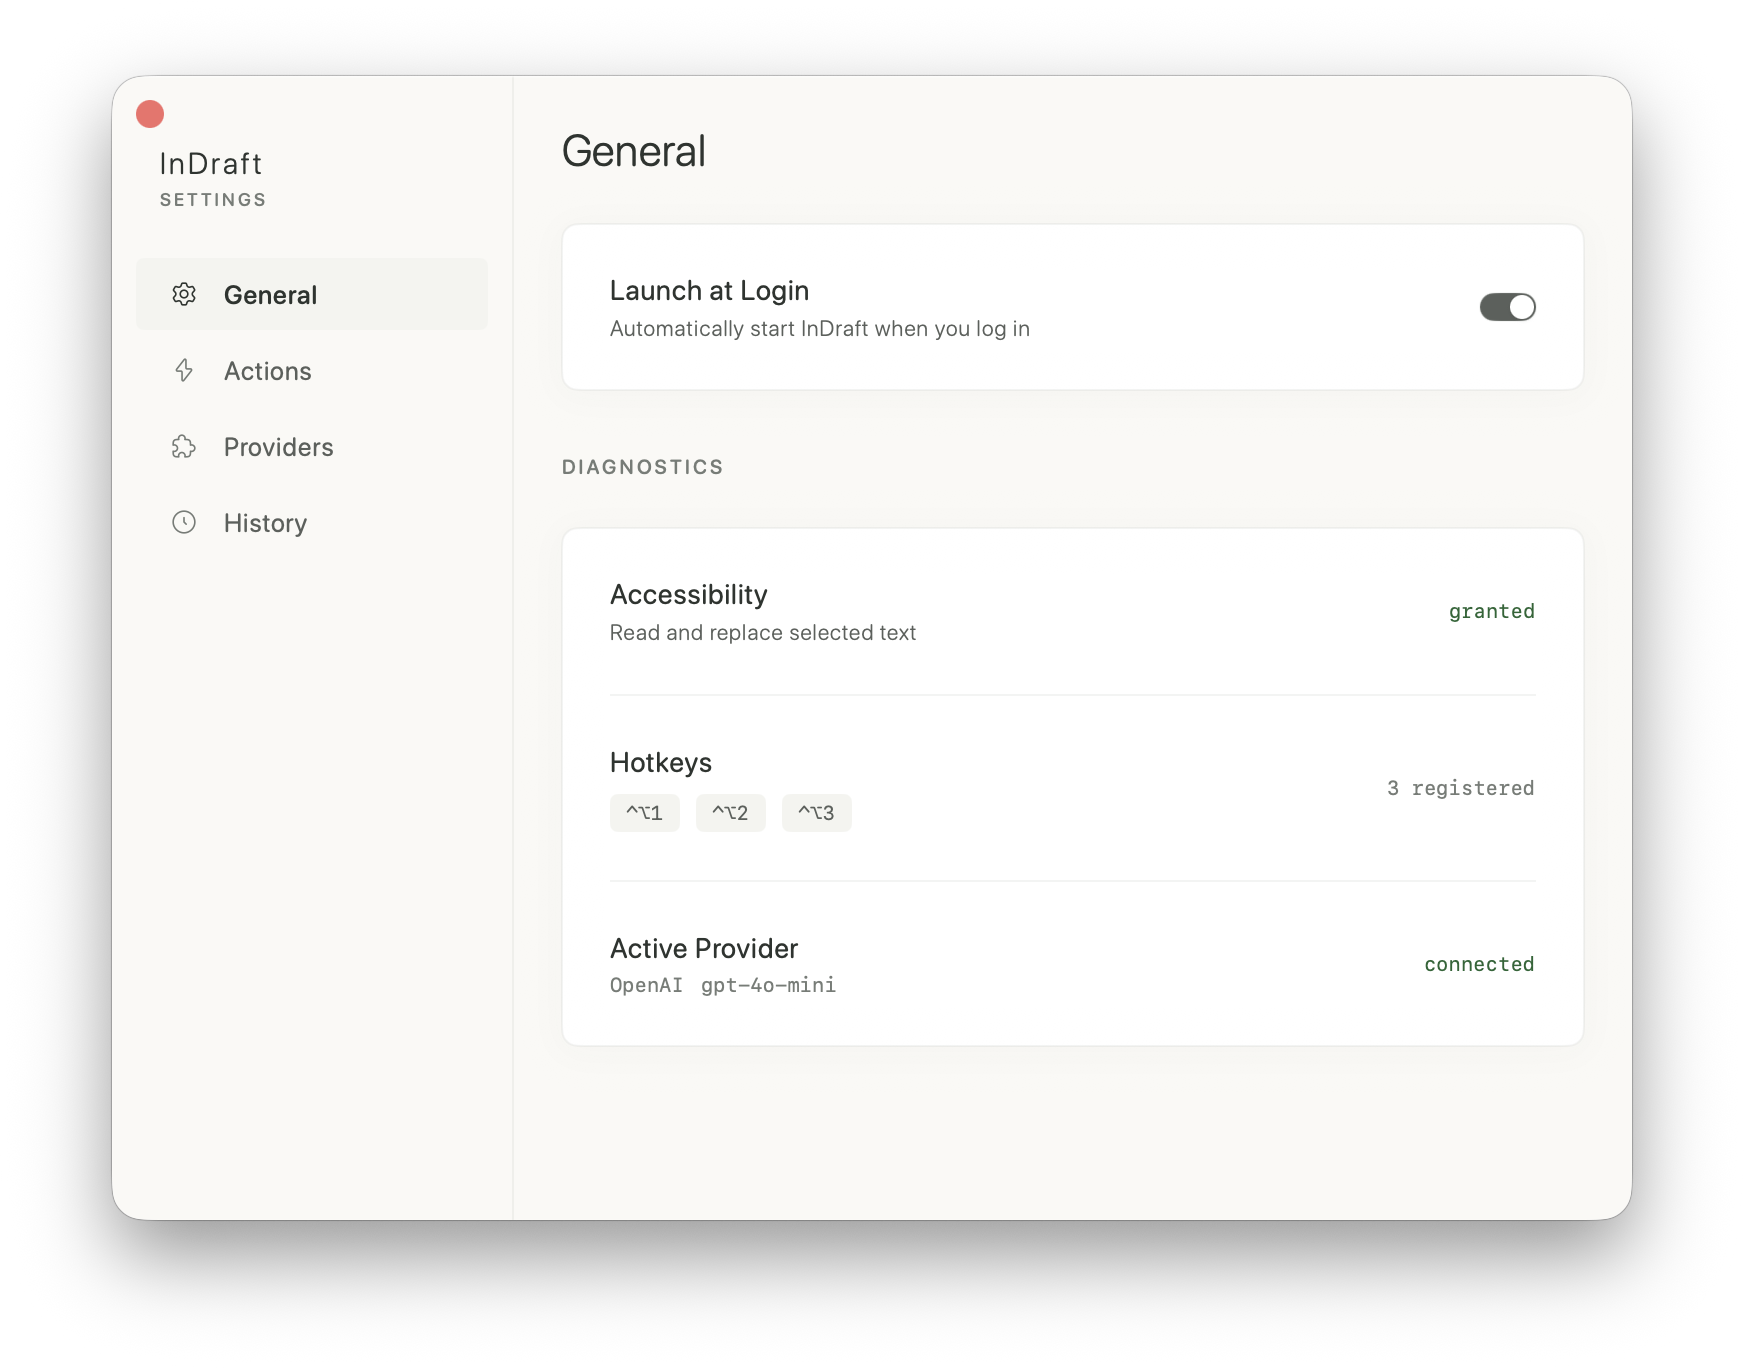
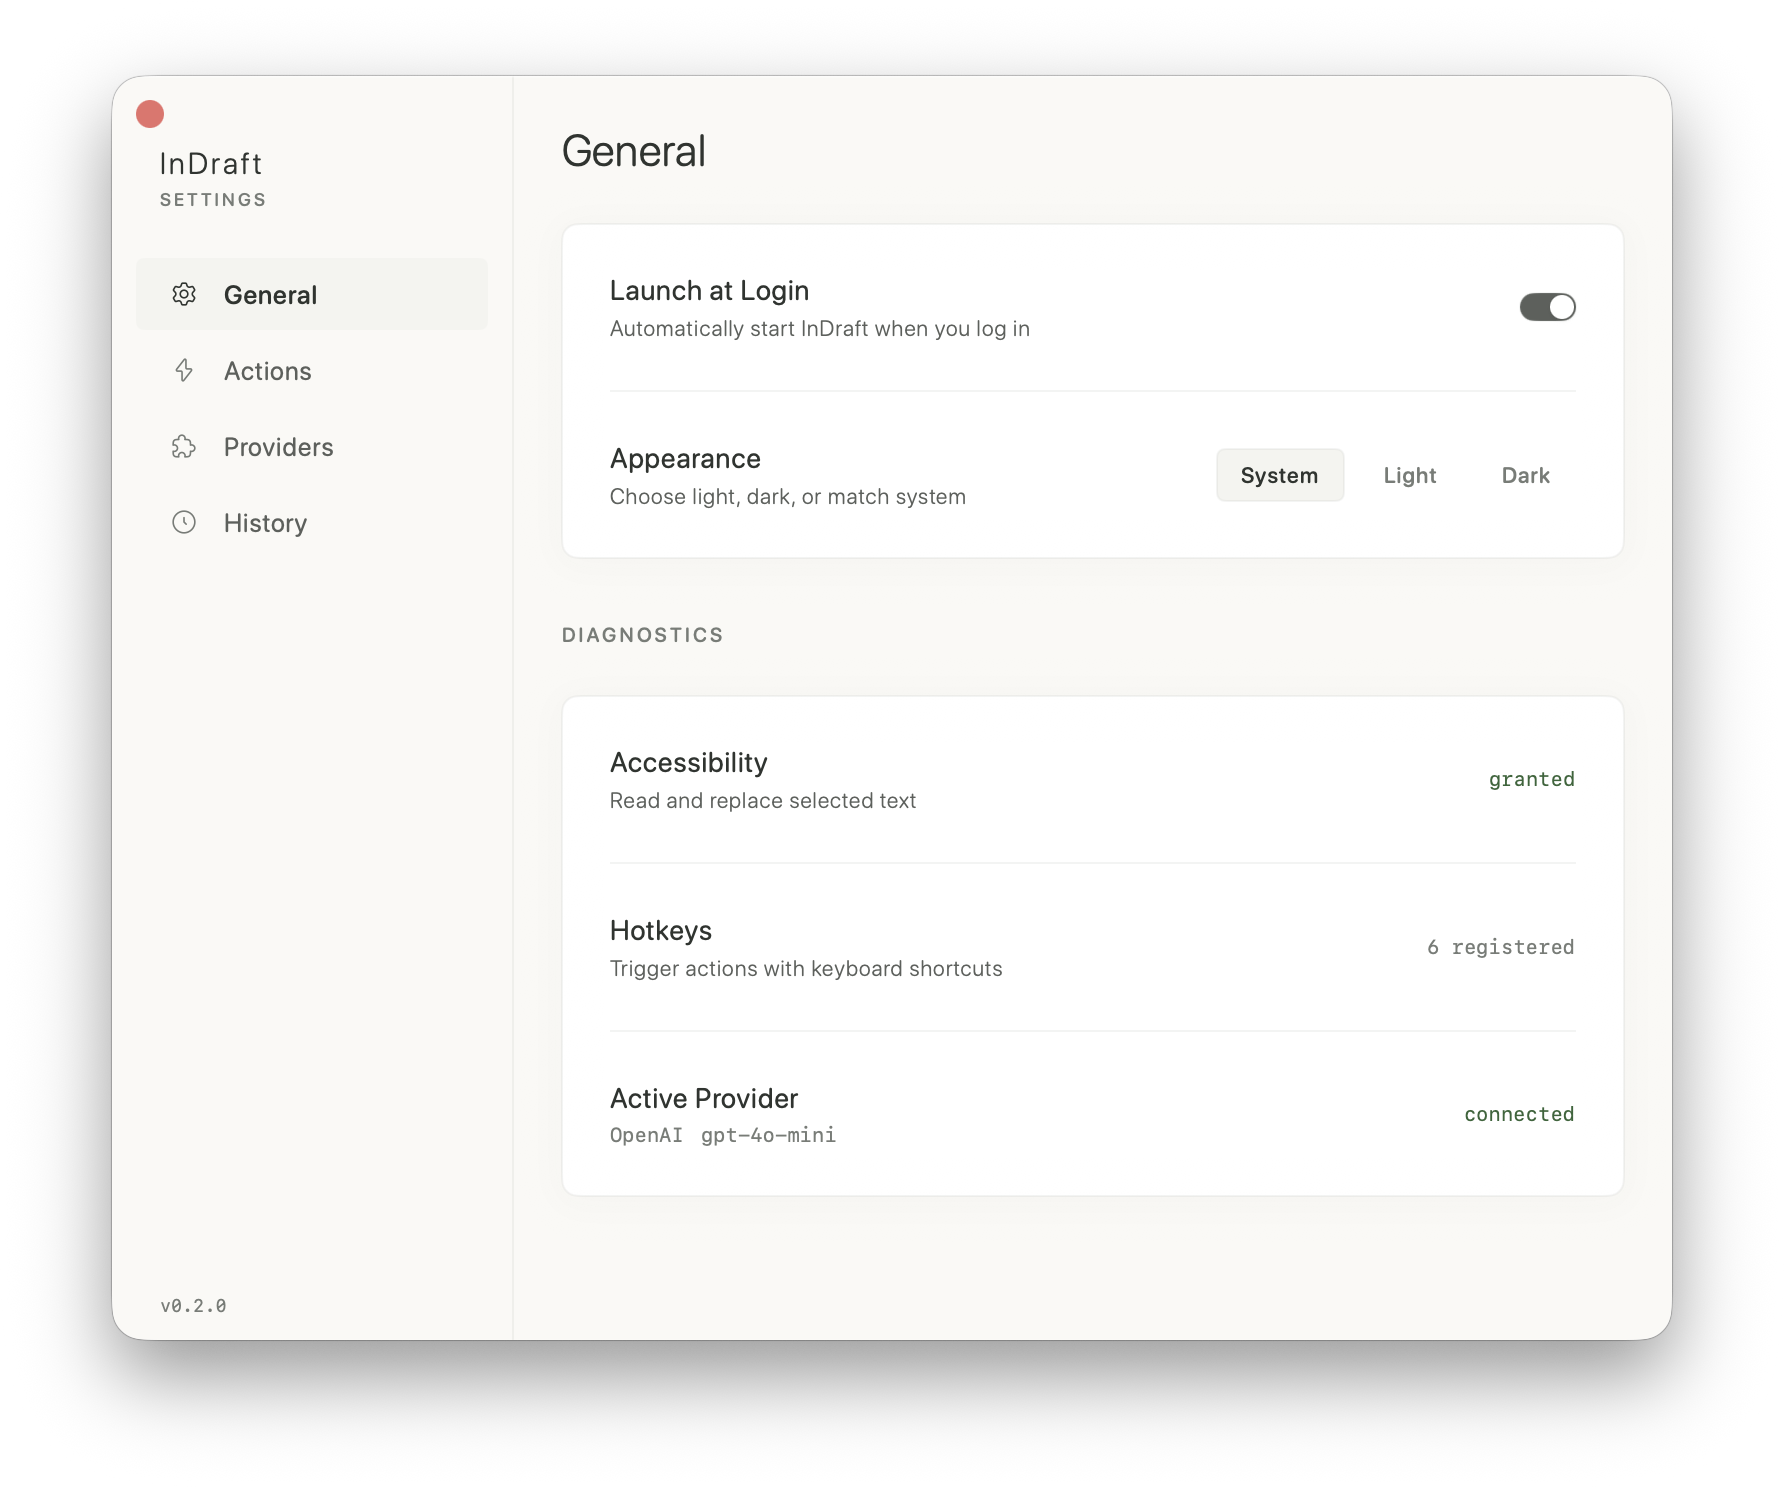
docs: Update README with v0.2.0 features, new screenshots, and history diff

diff --git a/README.md b/README.md
@@ -9,12 +9,12 @@
 </p>
 
 <p align="center">
-  <a href="https://github.com/addison-w/InDraft/releases/latest">📥 Download</a> · macOS 14.0+ · v0.1.0
+  <a href="https://github.com/addison-w/InDraft/releases/latest">Download</a> · macOS 14.0+ · v0.2.0
 </p>
 
 ---
 
-InDraft lives in your menu bar and rewrites, fixes, shortens, or translates your text in-place with a single keystroke. No copy-paste gymnastics. No switching to a browser. No waiting on a ChatGPT tab.
+InDraft lives in your menu bar and rewrites, fixes, shortens, translates, or transforms your text in-place with a single keystroke. No copy-paste gymnastics. No switching to a browser. No waiting on a ChatGPT tab.
 
 <p align="center">
   <img src="docs/screenshots/onboarding.png" width="520" alt="InDraft onboarding" />
@@ -22,78 +22,61 @@ InDraft lives in your menu bar and rewrites, fixes, shortens, or translates your
 
 ---
 
-## 😩 The Problem
+## The Problem
 
-You're writing an email or a slack message. You select a paragraph, open a new tab, paste it into ChatGPT, type "fix the grammar", wait, copy the result, switch back, paste it over the original text.
+You're writing an email or a Slack message. You select a paragraph, open a new tab, paste it into ChatGPT, type "fix the grammar", wait, copy the result, switch back, paste it over the original text.
 
 That's **~30 seconds** for one fix.
 
-Now multiply that by **50–100 times a day** — drafting emails, writing docs, polishing Slack messages, editing proposals. That's **25–50 minutes a day** lost to app-switching and copy-pasting. Every. Single. Day.
+Now multiply that by **50-100 times a day** — drafting emails, writing docs, polishing Slack messages, editing proposals. That's **25-50 minutes a day** lost to app-switching and copy-pasting. Every. Single. Day.
 
-And if you're chatting in multiple languages? Even worse. Type in your native language, switch to a translator, copy-paste, switch back… for every single message.
+And if you're chatting in multiple languages? Even worse. Type in your native language, switch to a translator, copy-paste, switch back... for every single message.
 
-## ✨ The Solution
+## The Solution
 
 With InDraft:
 
 1. **Select** text in any app
-2. **Press a hotkey** (e.g. `⌃⌥1`)
+2. **Press a hotkey** (e.g. `Ctrl+Opt+1`)
 3. **Done** — text is transformed in place
 
 That's it. No context switching. No clipboard juggling. Your cursor stays right where it is.
 
 ---
 
-## 🚀 What Can It Do?
+## 6 Built-in Actions
 
-InDraft ships with three built-in actions, and you can create as many custom ones as you want:
+InDraft ships with six predefined actions ready to use out of the box:
 
 | Hotkey | Action | What It Does |
 |--------|--------|-------------|
-| `⌃⌥1` | **Grammar Fix** | Fixes spelling, grammar, and punctuation |
-| `⌃⌥2` | **Rewrite for Clarity** | Simplifies and removes ambiguity |
-| `⌃⌥3` | **Shorten** | Cuts the fluff, keeps the meaning |
+| `Ctrl+Opt+1` | **Grammar Fix** | Fixes spelling, grammar, and punctuation |
+| `Ctrl+Opt+2` | **Rewrite for Clarity** | Simplifies and removes ambiguity |
+| `Ctrl+Opt+3` | **Shorten** | Cuts the fluff, keeps the meaning |
+| `Ctrl+Opt+4` | **Translate to English** | Translates any language to English, preserving tone |
+| `Ctrl+Opt+5` | **Professional Tone** | Rewrites text for business communication |
+| `Ctrl+Opt+6` | **ELI5** | Explains complex text in simple, everyday language |
 
 <p align="center">
-  <img src="docs/screenshots/settings-actions.png" width="640" alt="Actions settings" />
+  <img src="docs/screenshots/menu-bar.png" width="300" alt="InDraft menu bar dropdown" />
+  &nbsp;&nbsp;&nbsp;&nbsp;
+  <img src="docs/screenshots/settings-actions.png" width="540" alt="Actions settings" />
 </p>
 
-### 🌍 Instant Translation
-
-Create a custom action with a prompt like:
-
-> *"Translate to Japanese. Output only the translation."*
-
-Now you can type in English, select it, hit your hotkey, and the text transforms into Japanese **right where you typed it**. Perfect for multilingual chats, emails, or any conversation where you think in one language but need to write in another.
-
-### 🛠️ Custom Actions
+### Custom Actions
 
 Build any text transform you can describe in a prompt:
 
-- **Make it formal** — for client-facing emails
-- **Translate to Spanish** — for bilingual workflows
-- **ELI5** — simplify technical jargon
+- **Translate to Japanese** — for bilingual workflows
 - **Expand** — flesh out bullet points into full paragraphs
 - **Code review tone** — rewrite feedback to be constructive
+- **Casual tone** — make formal text feel more relaxed
 
 Each action gets its own hotkey. Your text, your rules.
 
 ---
 
-## 📦 Install
-
-1. Download `InDraft-v0.1.0.dmg` from [Releases](https://github.com/addison-w/InDraft/releases/latest)
-2. Open the DMG and drag **InDraft** to Applications
-3. Launch InDraft — the onboarding will walk you through setup
-
-### Requirements
-
-- macOS 14.0+
-- An OpenAI-compatible API provider (OpenAI, Ollama, any compatible endpoint)
-
----
-
-## 🎯 How It Works
+## How It Works
 
 ```
 ┌─────────────────────────────────────────────────┐
@@ -101,14 +84,14 @@ Each action gets its own hotkey. Your text, your rules.
 │   You're writing in any app                     │
 │                                                 │
 │   1. Select some text                           │
-│   2. Hit ⌃⌥1 (or any action hotkey)            │
+│   2. Hit Ctrl+Opt+1 (or any action hotkey)      │
 │                                                 │
 │   ┌───────────────────────────────────┐         │
 │   │  InDraft (in the background)      │         │
 │   │                                   │         │
-│   │  📋 Captures selected text        │         │
-│   │  🤖 Sends to your AI provider    │         │
-│   │  ✅ Replaces text in place        │         │
+│   │  Captures selected text           │         │
+│   │  Sends to your AI provider        │         │
+│   │  Replaces text in place           │         │
 │   └───────────────────────────────────┘         │
 │                                                 │
 │   3. Keep working — text is already updated     │
@@ -120,26 +103,51 @@ InDraft reads your selected text via the macOS Accessibility API (with a clipboa
 
 ---
 
-## ⚙️ Features
+## Features
 
 <p align="center">
-  <img src="docs/screenshots/menu-bar.png" width="300" alt="Menu bar dropdown" />
-  &nbsp;&nbsp;&nbsp;&nbsp;
-  <img src="docs/screenshots/settings-general.png" width="540" alt="Settings" />
+  <img src="docs/screenshots/settings-general.png" width="640" alt="Settings - General" />
 </p>
 
-- **🖥️ Menu bar app** — always running, never in the way
-- **⌨️ Global hotkeys** — trigger actions from any app with customizable shortcuts
-- **🔌 Multi-provider** — OpenAI, Ollama, or any OpenAI-compatible API
-- **👀 Live preview** — optionally preview transforms before accepting
-- **📋 Clipboard mode** — copy results instead of replacing
-- **📜 History** — browse past transforms with configurable retention
-- **🔐 Keychain storage** — API keys stored securely in macOS Keychain
-- **🎨 Minimal design** — warm, editorial UI that feels native to macOS
+- **Menu bar app** — always running, never in the way
+- **Global hotkeys** — trigger actions from any app with customizable shortcuts
+- **Multi-provider** — OpenAI, Ollama, or any OpenAI-compatible API
+- **Per-action provider config** — assign specific providers and models to individual actions
+- **Live preview** — optionally preview transforms before accepting
+- **Clipboard mode** — copy results instead of replacing
+- **History** — browse past transforms with diff comparison
+- **Keychain storage** — API keys stored securely in macOS Keychain
+- **Smart icon matching** — actions automatically get contextual icons based on their name
+- **Minimal design** — warm, editorial UI that feels native to macOS
+
+<p align="center">
+  <img src="docs/screenshots/settings-providers.png" width="640" alt="Settings - Providers" />
+</p>
+
+### History with Diff View
+
+Every transformation is logged with the source app, action used, and processing time. Expand any entry to see a side-by-side diff highlighting exactly what changed — deletions in red, additions in green.
+
+<p align="center">
+  <img src="docs/screenshots/history.png" width="640" alt="History with diff view" />
+</p>
 
 ---
 
-## 🧑💻 Development
+## Install
+
+1. Download `InDraft-v0.2.0.dmg` from [Releases](https://github.com/addison-w/InDraft/releases/latest)
+2. Open the DMG and drag **InDraft** to Applications
+3. Launch InDraft — the onboarding will walk you through setup
+
+### Requirements
+
+- macOS 14.0+
+- An OpenAI-compatible API provider (OpenAI, Ollama, any compatible endpoint)
+
+---
+
+## Development
 
 Built with SwiftUI + SwiftData. Uses [XcodeGen](https://github.com/yonaskolb/XcodeGen) for project generation.
 
@@ -153,6 +161,6 @@ open InDraft.xcodeproj
 
 ---
 
-## 📄 License
+## License
 
 MIT